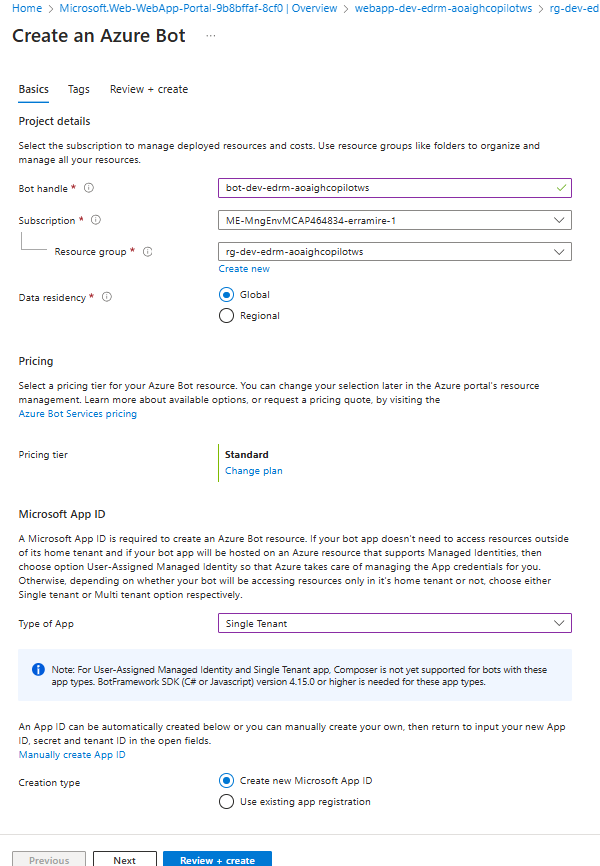
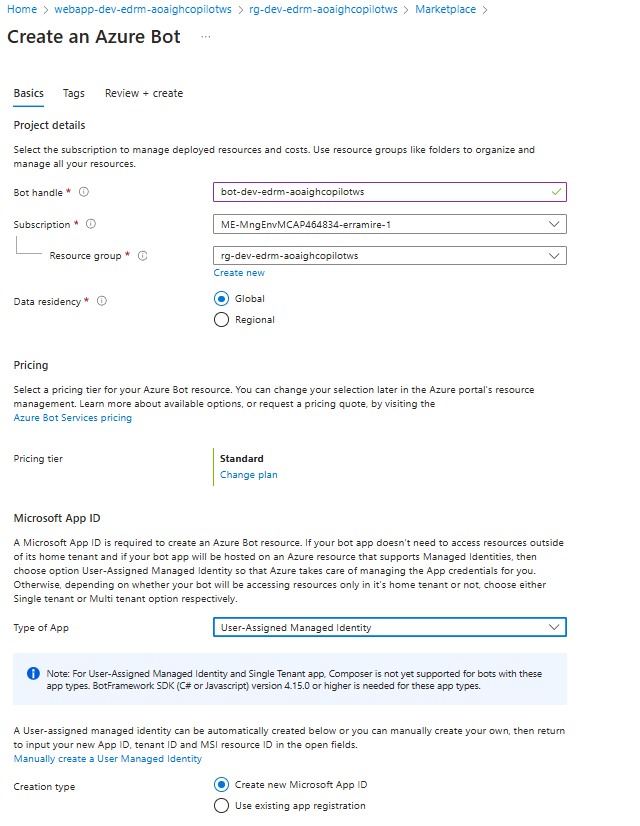
correccion errores

diff --git a/README.md b/README.md
@@ -1,10 +1,10 @@
 # MTC Cloud Academy - Desarrollo de aplicaciones Inteligentes con GitHub Copilot y CodeSpaces
 
-Este repositorio tiene el paso a paso para crear una aplicacion inteligente de tipo conversacional usando Azure Open AI, GitHub y sus herramientas.
+Este repositorio tiene el paso a paso para crear una aplicación inteligente de tipo conversacional usando Azure Open AI, GitHub y sus herramientas.
 
 El objetivo es mostrar que se pueden construir aplicaciones con inteligencia artificial generativa con GH Copilot, GH Codespaces y usando servicios PaaS de Azure.
 
-Cada sección tiene como objetivo principal mostrar una o varias caracteristicas de Azure Open AI, GH Copilot, las cuales se especifican en cada sección, no es necesario contar con un ambiente de desarrollo porque usaremos GH Codespaces que ya tiene las extensiones y frameworks necesarios para ejecutar el taller.
+Cada sección tiene como objetivo principal mostrar una o varias características de Azure Open AI, GH Copilot, las cuales se especifican en cada sección, no es necesario contar con un ambiente de desarrollo porque usaremos GH Codespaces que ya tiene las extensiones y frameworks necesarios para ejecutar el taller.
 
 Lo ideal es crear un Fork de este repositorio y utilizar el ambiente de Azure proporcionado en la sesión.
 
@@ -43,12 +43,12 @@ Los bots inteligentes que utilizan Azure Open AI y Azure Bot pueden ser implemen
 
 Estos bots se pueden personalizar y escalar según las necesidades específicas de cada negocio, proporcionando soluciones eficientes que mejoran la experiencia del usuario y optimizan los recursos internos.
 
-En la guia estamos planteando un bot relacionado con Buceo, pero es recomendable que el escenario lo relaciones con la industria de tu escenario de negocio. 
+En la guía estamos planteando un bot relacionado con Buceo, pero es recomendable que el escenario lo relaciones con la industria de tu escenario de negocio. 
 
-Buscamos habilitar el siguiente escenario tecnico:
+Buscamos habilitar el siguiente escenario técnico:
 "aqui va la imagen"
 
-A continuacion se muestra el contenido de la guía recomendada dela Demo
+A continuación se muestra el contenido de la guía recomendada dela Demo
 
 
 - [Demo Rapida de GitHub Copilot](#demo-rapida-de-github-copilot)
@@ -64,21 +64,21 @@ A continuacion se muestra el contenido de la guía recomendada dela Demo
 
 Para poder ejecutar la demo es necesario seguir los siguientes pasos: 
 
-1. Contar con una suscripción de Azure, si no cuentas con una puedes crear una cuenta gratuita en [Azure](https://azure.microsoft.com/es-es/free/). Para el taller contamos con un ambiente de Azure proporcionado por el instructor, el les hara llegar un correo con las instrucciones para acceder al ambiente (Es necesario registrarse en la liga que esta en el correo, ingresar el codigo y posteriormente dar clic en el botón "Launch Lab").
+1. Contar con una suscripción de Azure, si no cuentas con una puedes crear una cuenta gratuita en [Azure](https://azure.microsoft.com/es-es/free/). Para el taller contamos con un ambiente de Azure proporcionado por el instructor, el les hará llegar un correo con las instrucciones para acceder al ambiente (Es necesario registrarse en la liga que esta en el correo, ingresar el código y posteriormente dar clic en el botón "Launch Lab").
 
 2. Vamos al repositorio (https://github.com/demoedrmmsft/mtc-cloud-academy-openai-ghcopilot) y le damos clic en el botón de "Fork" ![alt text](images/image-a1.png)
 3. Posteriormente le damos clic en "Create A new fork" ![alt text](images/image-a2.png) 
 4. Especificamos el nombre del Repositorio (Podemos dejar el mismo nombre) y damos clic en "Create Fork" ![alt text](images/image-a3.png)
 5. Crear una rama en el repositorio, siguiendo los siguientes paso:
-   - a. Vamos a la sección de codigo, poseriormente en el menu de ramas damos clic ![alt text](images/image-1.png)
+   - a. Vamos a la sección de código, posteriormente en el menu de ramas damos clic ![alt text](images/image-1.png)
    - b. Especificamos el nombre de la rama (recomendable demo-"tualias") y del damos clic en Create branch demo-"tualias" from main ![alt text](images/image-2.png)
-   - c. Una vez que estas en la rama recien creada le damos clic en "Code" -> En la sección de Codespaces le damos clic en el botón de "+" ![alt text](images/image-3.png)
-6. Puede que intente abrir con Visual Studio code si lo tienes habilitado, si no puedes usar el navegador web. En caso que no visualizar el codespace, en nuestra rama, damos clic al botón de "Code" -> Damos clien en las elipses del codespace de nuestra rama y posteriormente en la opción de "Open in Browser" ![alt text](images/image-4.png)
+   - c. Una vez que estas en la rama recién creada le damos clic en "Code" -> En la sección de Codespaces le damos clic en el botón de "+" ![alt text](images/image-3.png)
+6. Puede que intente abrir con Visual Studio code si lo tienes habilitado, si no puedes usar el navegador web. En caso que no visualizar el codespace, en nuestra rama, damos clic al botón de "Code" -> Damos clic en las elipses del codespace de nuestra rama y posteriormente en la opción de "Open in Browser" ![alt text](images/image-4.png)
 7. Estas listo para seguir la guía y crear un bot inteligente que usa Azure Open AI .
 
 ## Paso a paso
 
-Dentro del escenario tenemos un Bot intelligente que usara Azure OpenAI para agregar inteligencia articial generativa, este Bot se podra integrar con microsoft teams y con un portal web.  
+Dentro del escenario tenemos un Bot inteligente que usara Azure OpenAI para agregar inteligencia artificial generativa, este Bot se podrá integrar con microsoft teams y con un portal web.  
 
 ### Habilitacion de Azure Open AI , Servicios de busqueda y Storage Account en Azure
 
@@ -86,7 +86,7 @@ En esta sección vamos a habilitar los servicios de Azure necesarios para el des
 
 #### A. Creación de Grupo de Recursos
 
-El grupo de recursos es el contenedore que agrupa los recursos de Azure, en este caso vamos a crear un grupo de recursos para organizar los recursos que vamos a crear.
+El grupo de recursos es el contenedor que agrupa los recursos de Azure, en este caso vamos a crear un grupo de recursos para organizar los recursos que vamos a crear.
 
 1. En el ambiente de Azure proporcionado por el instructor o en tu suscripción, vamos a la sección de "Resource Groups" y creamos un grupo de recursos. ![alt text](images/image-a4.png)
 2. Especificamos el nombre (podemos usar el siguiente formato "rg-dev-"iniciales"+"-aoaighcopilotws"y la región y damos clic en "Review + Create". ![alt text](images/image-a5.png)
@@ -95,12 +95,12 @@ El grupo de recursos es el contenedore que agrupa los recursos de Azure, en este
 
 El Storage Account de Azure es un servicio de almacenamiento en la nube seguro y altamente disponible que facilita el almacenamiento de datos estructurados y no estructurados en la nube. En nuestro escenario nos permitirá almacenar los archivos que queremos que use Azure OpenAI para darnos respuestas inteligentes a traves de nuestro Bot. Para crear una cuenta de almacenamiento en Azure, sigue estos pasos:
 
-1. En portal de Azure, vamos al grupo que recien creamos, damos clic en "Create", buscamos la sección de "Storage accounts" y creamos una cuenta de almacenamiento. ![alt text](images/image-a6.png)
+1. En portal de Azure, vamos al grupo que recién creamos, damos clic en "Create", buscamos la sección de "Storage accounts" y creamos una cuenta de almacenamiento. ![alt text](images/image-a6.png)
 2. Especificamos el nombre de la cuenta de almacenamiento (podemos usar el siguiente formato "sadev"+"iniciales"+"aoaighcopilotws", seleccionamos "Standard" en Performance y la región. damos clic en "Review + Create" y posteriormente en el botón de "Create". ![alt text](images/image-a7.png) ![alt text](images/image-a8.png)
 
 #### C. Creación de Azure Cognitive Search
 
-Azure Cognitive Search es un servicio de búsqueda en la nube completamente administrado que proporciona la capacidad de agregar una búsqueda enriquecida a las aplicaciones web y móviles. En nuestro escenario nos permitirá buscar información en los archivos que almacenamos en el Storage Account y proporcionar un mecanismo efectivo de busqueda a Azure OpenAI. Para crear un servicio de búsqueda en Azure, sigue estos pasos:
+Azure Cognitive Search es un servicio de búsqueda en la nube completamente administrado que proporciona la capacidad de agregar una búsqueda enriquecida a las aplicaciónes web y móviles. En nuestro escenario nos permitirá buscar información en los archivos que almacenamos en el Storage Account y proporcionar un mecanismo efectivo de busqueda a Azure OpenAI. Para crear un servicio de búsqueda en Azure, sigue estos pasos:
 
 1. En el portal de Azure, vamos al grupo de recursos que creamos, damos clic en "Create", buscamos la sección de "Azure AI Search" y creamos un servicio de búsqueda. ![alt text](images/image-a9.png)
 2. Especificamos el nombre del servicio de búsqueda (podemos usar el siguiente formato "aais-dev-"+"iniciales"+"-aoaighcopilotws", seleccionamos la región, y el pricing tier (Standard funciona bien para nuestro escenario) y damos clic en "Review + Create"; posteriormente en el botón de "Create". ![alt text](images/image-a10.png) ![alt text](images/image-a11.png)
@@ -114,7 +114,7 @@ Azure OpenAI es un servicio de inteligencia artificial generativa que permite a 
 
 #### Creación del Despliegue de ChatGPT
 
-Los Despliegues proveen endpoints a los modelos base de Azure OpenAI, en especial buscamos configurar el modelo de LLM (Large Language Model) que usaremos para hacer nuestro Bot Inteligete. En esta sección vamos a crear un despliegue de ChatGPT en Azure OpenAI, para esto es necesario seguir los siguientes pasos:
+Los Despliegues proveen endpoints a los modelos base de Azure OpenAI, en especial buscamos configurar el modelo de LLM (Large Language Model) que usaremos para hacer nuestro Bot Inteligente. En esta sección vamos a crear un despliegue de ChatGPT en Azure OpenAI, para esto es necesario seguir los siguientes pasos:
 
 1. En el portal de Azure, vamos al servicio de Azure OpenAI que creamos, en la sección de "Deployments" damos clic en "Create Deployment". ![alt text](images/image-a15.png)
 2. Damos clic en "Manage Deployments" para poder acceder a la consola de Azure OpenAI Studio ![alt text](images/image-a16.png)
@@ -123,11 +123,11 @@ Los Despliegues proveen endpoints a los modelos base de Azure OpenAI, en especia
 
 #### Trae tus datos a Azure OpenAI
 
-Para poder usar Azure OpenAI necesitamos traer nuestros datos a Azure OpenAI, en este caso vamos a especificar en el deployment que acabamos de configurar de donde obtendra los datos con lo que nos ayudará de un archivo de texto que contiene información sobre Buceo. Para traer los datos a Azure OpenAI, sigue estos pasos:
+Para poder usar Azure OpenAI necesitamos traer nuestros datos a Azure OpenAI, en este caso vamos a especificar en el deployment que acabamos de configurar de donde obtendrá los datos con lo que nos ayudará de un archivo de texto que contiene información sobre Buceo. Para traer los datos a Azure OpenAI, sigue estos pasos:
 
 1. En el portal de Azure, vamos al servicio de Azure OpenAI que creamos, en la sección de "Deployments", seleccionamos el Deployment que creamos y damos clic en "Open in Playground". ![alt text](images/image-a19.png)
 2. Ahora vemos el Playground de Azure OpenAI, podemos ver que si interactuamos con el modelo de ChatGPT, nos da respuestas inteligentes, pero provenientes de su base de conocimiento publica. ![alt text](images/image-a20.png)
-3. Por lo que si queremos acotarlo a que responda con datos de una fuente especifica nesitamos indicarselo al deployment. para esto en el panel lateral izquierdo le damos clic en "Add your Data" -> "Add a data source" ![alt text](images/image-a21.png)
+3. Por lo que si queremos acotarlo a que responda con datos de una fuente especifica necesitamos indicarlo al deployment. para esto en el panel lateral izquierdo le damos clic en "Add your Data" -> "Add a data source" ![alt text](images/image-a21.png)
 4. Seleccionamos los siguientes datos y damos clic en "Next":
    - Data source:  Upload files
    - Suscripción de Azure
@@ -137,10 +137,10 @@ Para poder usar Azure OpenAI necesitamos traer nuestros datos a Azure OpenAI, en
    - nombre del indice: contentindex
    ![alt text](images/image-a22.png)
 5. Posteriormente nos solicita subir un archivo, damos clic en "Upload files" y seleccionamos el cualquier archivo que se encuentre en la carpeta "dataFiles" de nuestro repositorio y damos clic en "Upload files". ![alt text](images/image-a23.png)
-6. Una vez que se subio el archivo, damos clic en "Next" ![alt text](images/image-a24.png)
-7. En la siguiente pantalla nos solicita que indiquemos el tipo de Busqueda, solo esta disponible la opción "Keyword", posteriormente seleccionamos el tamaño del Chunk; dejamos la opción por defecto.Damos clic en "Next" ![alt text](images/image-a25.png)
+6. Una vez que se subió el archivo, damos clic en "Next" ![alt text](images/image-a24.png)
+7. En la siguiente pantalla nos solicita que indiquemos el tipo de Búsqueda, solo esta disponible la opción "Keyword", posteriormente seleccionamos el tamaño del Chunk; dejamos la opción por defecto.Damos clic en "Next" ![alt text](images/image-a25.png)
 8. Nos muestra un resumen de la configuración, damos clic en el botón de "Save and close" ![alt text](images/image-a26.png)
-9. Ahora podemos ver que esta ejecutandose el proceso de ingestion e indexación, esperamos a que terminen ambos procesos ![alt text](images/image-a27.png)
+9. Ahora podemos ver que esta ejecutándose el proceso de ingestion e indexación, esperamos a que terminen ambos procesos ![alt text](images/image-a27.png)
 10. Una vez que termino el proceso de ingestion e indexación, podemos ver que el modelo de ChatGPT ya esta listo para responder con la información que se encuentra en el archivo que subimos. ![alt text](images/image-a28.png).![alt text](image.png)
 
 ### Creación de Azure Bot Service
@@ -152,35 +152,35 @@ Azure Bot Service es un servicio de Azure que permite a los desarrolladores crea
 3. Una vez que se creo el App Service Plan necesitamos crear un web app, vamos al grupo de recursos que creamos, damos clic en "Create", buscamos la sección de "Web App" y creamos le damos clic en "Create un Bot Service. ![alt text](images/image-a33.png)
 4. Especificamos el nombre del Web App (podemos usar el siguiente formato "webapp-dev-"+"iniciales"+"-aoaighcopilotws"), seleccionamos el tipo de publish = "Code", el Runtime Stack = ".NET 6 (LTS), Sistema operativo = "Linux",  el App Service Plan que creamos, la región, y damos clic en "Review + Create"; posteriormente en el botón de "Create". ![alt text](images/image-a34.png) ![alt text](images/image-a35.png)
 5. Una vez que se creo el Web App, necesitamos crear un Bot Service, vamos al grupo de recursos que creamos, damos clic en "Create", buscamos la sección de "Azure Bot" y creamos le damos clic en "Create". ![alt text](images/image-a36.png)
-6. Especificamos el nombre del Bot (podemos usar el siguiente formato "bot-dev-"+"iniciales"+"-aoaighcopilotws"), seleccionamos el Data REsidency = "Global, Pricing Tier Standard, Type of App Single Tenant y el Creation Type: Create new Microsoft App ID; damos clic en "Review + Create"; posteriormente en el botón de "Create". ![alt text](images/image-a37.png) ![alt text](images/image-a38.png)
+6. Especificamos el nombre del Bot (podemos usar el siguiente formato "bot-dev-"+"iniciales"+"-aoaighcopilotws"), seleccionamos el Data REsidency = "Global, Pricing Tier Standard, Type of App: User-Assigned Managed Identity y el Creation Type: Create new Microsoft App ID; damos clic en "Review + Create"; posteriormente en el botón de "Create". ![alt text](images/image-a37.png) ![alt text](images/image-a38.png)
 7. Una vez que se creo el Bot Service, necesitamos configurar el messaging endpoint, para esto agregamos la url del web app anteriormente creada mas el posfijo de "/api/messages"; damos clic en "Apply". ![alt text](images/image-a39.png)
-8. Por ultimo necesitamos habilitar el proceso de despligue continuo en Github para que publique directamente en el web app, como primer paso habilitamos el SCM Basic Auth Publishing y FTP Basic Auth Publishing en la sección de configuración, damo clic en "Save" ![alt text](images/image-a40.png)
+8. Por ultimo necesitamos habilitar el proceso de despliegue continuo en Github para que publique directamente en el web app, como primer paso habilitamos el SCM Basic Auth Publishing y FTP Basic Auth Publishing en la sección de configuración, damos clic en "Save" ![alt text](images/image-a40.png)
 9. Posteriormente en la sección de "Overview" seleccionamos "Download publish profile". ![alt text](images/image-a41.png)
-10. Abrimos el archivo en Notepad o el editor de texto de tu predilección, copiamos el contenido; vamos a Github en el repositorio al que le hicimos fork, vamos a la seccion de Settings y despues a "Secrets and Variables" -> Actions ![alt text](images/image-a42.png)
-11. Creamos un nuevo secreto dando clic en el boton de "New repository secret" ![alt text](images/image-a43.png)
+10. Abrimos el archivo en Notepad o el editor de texto de tu predilección, copiamos el contenido; vamos a Github en el repositorio al que le hicimos fork, vamos a la sección de Settings y después a "Secrets and Variables" -> Actions ![alt text](images/image-a42.png)
+11. Creamos un nuevo secreto dando clic en el botón de "New repository secret" ![alt text](images/image-a43.png)
 12. Especificamos el nombre= "AZUREAPPSERVICE_PUBLISHPROFILE" y el Secret con el valor que copiamos anteriormente.![alt text](images/image-a44.png)
 
 Con esto ya tenemos configurado el despliegue continuo de nuestro Bot en Azure Bot Service. Vamos a codificar nuestro Bot.
 
 ### Construcción del Bot
 
-Una vez abierto nuestro codespace en el navegador, en esta seccion necesitamos platicar de las siguientes funcionlidades de GH Copilot: 
+Una vez abierto nuestro Codespace en el navegador, en esta sección necesitamos platicar de las siguientes funcionalidades de GH Copilot: 
 
-- Mostramos que es muy facil integrarlo en nuestro ide (Visual Studio Code):
+- Vemos que es muy fácil integrarlo en nuestro IDE (Visual Studio Code):
   1. Vamos al pane lateral izquierdo y damos clic en el menu de extensiones ó con el shortcut de "Ctrl+Shift+X" ![alt text](images/image-5.png)
-  2. En la barra de Busqueda buscamos "GitHub Copilot", y comentamos que tenemos disponible la ayuda disponible inline con GH Copilot y con un asistente Virtual con Github Copilot y esta al alcance de un clic en el boton instalar. ![alt text](images/image-6.png)
-- Una vez explicado lo anterior vamos al panel lateral izquierdo y le damos clic en el menu de "Chat"; ahí explicamos que tenemos una interfaz conversacional donde podemos poner nuestros promts. ![alt text](images/image-7.png)
+  2. En la barra de Búsqueda buscamos "GitHub Copilot", tenemos disponible la ayuda disponible inline con GH Copilot y con un asistente Virtual con Github Copilot y esta al alcance de un clic en el botón instalar. ![alt text](images/image-6.png)
+- Una vez explicado lo anterior vamos al panel lateral izquierdo y le damos clic en el menu de "Chat"; ahí vemos que tenemos una interfaz conversacional donde podemos poner nuestros prompts. ![alt text](images/image-7.png)
 
-Una vez explicado esto procedemos a construir nuestro bot:
+Procedemos a construir nuestro bot:
 
-1. En el asistente de GH Copilot escribimos el siguiente prompt: "Como desarrollador, necesito crear una aplicacion web de tipo bot en .Net Core llamada BuceoBot, donde utilice el template de EchoBot del Bot Framework de Microsoft". Si la Respuesta es similar a la siguiente imagen le damos clic en boton de thums up para indicar que lo que nos recomendo fue acertado (con eso le indicamos a GH Copilot que nos dio una respuesta correcta y en futuras interacciones no dará respuestas mas adecuadas). ![alt text](images/image-8.png)
-2. Es importante recalcar que la estructura del prompt anterior es del tipo "Zero Prompt", sin embargo al usar tecnicas como especificar cual es nuestro rol, expresar una acción y detallar un contexto nos permite tener respuestas mas certeras para usarlas en el desarrollo de nuestra solución. Ahora necesitamos aplicar lo que nos recomienda. Para esto vamos a instalar las platillas , abrimos una terminal en el codespace de la siguiente forma: Menu Contextual -> Terminal -> New Terminal ![alt text](images/image-9.png)
-3. Posteriomente posicionamos el curson en la primera recomendación y seleccionamos la opcion de "Insert in Terminal", ejecutamos el comando. ![alt text](images/image99.png)
-   Puede ser que falle nuestro comando. 
+1. En el asistente de GH Copilot escribimos el siguiente prompt: "Como desarrollador, necesito crear una aplicación web de tipo bot en .Net Core llamada BuceoBot, donde utilice el template de EchoBot del Bot Framework de Microsoft". Si la Respuesta es similar a la siguiente imagen le damos clic en botón de thumbs up para indicar que lo que nos recomendó fue acertado (con eso le indicamos a GH Copilot que nos dio una respuesta correcta y en futuras interacciones no dará respuestas mas adecuadas). ![alt text](images/image-8.png)
+2. Es importante recalcar que la estructura del prompt anterior es del tipo "Zero Prompt", sin embargo al usar técnicas como especificar cual es nuestro rol, expresar una acción y detallar un contexto nos permite tener respuestas mas certeras para usarlas en el desarrollo de nuestra solución. Ahora necesitamos aplicar lo que nos recomienda. Para esto vamos a instalar las platillas , abrimos una terminal en el Codespace de la siguiente forma: Menu Contextual -> Terminal -> New Terminal ![alt text](images/image-9.png)
+3. Posteriormente posicionamos el cursor en la primera recomendación y seleccionamos la opción de "Insert in Terminal", ejecutamos el comando. ![alt text](images/image99.png)
+   Puede ser que falle nuestro comando.
    ![alt text](images/image-199.png)
-4. En dado caso que falle, una de las ventajas que tenemos es que podemos usar GH copilot, tiene la posibilidad de usar comandos para poder obtener recomendaciones para resolver un error en la terminal, en la ventana de copilot escribimos el promtp "@terminal /explain #terminalLastCommand" donde con la @ especificamos el area de trabajo que en nuestro caso es la consola, / usamos el comando para que GH Copilt nos explique porque esta mal el comando anterior y con el # especificamos que comando que en nuestro caso es el ultimo. lo cual nos ayuda a no cambiar de contexto y seguir trabajando en el IDE. ![alt text](images/image-299.png)
+4. En dado caso que falle, una de las ventajas que tenemos es que podemos usar GH copilot, tiene la posibilidad de usar comandos para poder obtener recomendaciones para resolver un error en la terminal, en la ventana de copilot escribimos el promtp "@terminal /explain #terminalLastCommand" donde con la @ especificamos el area de trabajo que en nuestro caso es la consola, / usamos el comando para que GH Copilot nos explique porque esta mal el comando anterior y con el # especificamos que comando que en nuestro caso es el ultimo. lo cual nos ayuda a no cambiar de contexto y seguir trabajando en el IDE. ![alt text](images/image-299.png)
 5. Aplicamos las recomendaciones e intentamos ejecutar el comando anterior y vemos que esta mal de nuevo. ![alt text](images/image-399.png)
-6. Es posible que ya no se encuentre este paquete por lo que vamos a cambiar nuestro prompt anterior. Necesitamos usar el template de EchoBot, por lo que necesitamos ejecutar el siguiente prompt "Como desarrollador, necesito crear una aplicacion web de tipo bot en .Net Core llamada BuceoBot, donde utilice el template de EchoBot del Bot Framework de Microsoft. El template de EchoBot para C# lo necesito instalar con el comando dotnet -i, usando dotnet new -i Microsoft.Bot.Framework.CSharp.EchoBot"![alt text](images/image-499.png)
+6. Es posible que ya no se encuentre este paquete por lo que vamos a cambiar nuestro prompt anterior. Necesitamos usar el template de EchoBot, por lo que necesitamos ejecutar el siguiente prompt "Como desarrollador, necesito crear una aplicación web de tipo bot en .Net Core llamada BuceoBot, donde utilice el template de EchoBot del Bot Framework de Microsoft. El template de EchoBot para C# lo necesito instalar con el comando dotnet -i, usando dotnet new -i Microsoft.Bot.Framework.CSharp.EchoBot"![alt text](images/image-499.png)
 7. Seguimos las recomendaciones ejecutamos el comando ![alt text](images/image-599.png)
 8. Creamos nuestro proyecto ejecutando el comando de creación recomendado. ![alt text](images/image-699.png)
 9. Nos cambiamos de repositorio y ejecutamos el proyecto. ![alt text](images/image-799.png)
@@ -190,22 +190,22 @@ Una vez explicado esto procedemos a construir nuestro bot:
 13. Puede resultar confuso si no tengo el conocimiento de como funciona un bot, por tal motivo vamos a pedirle a GH Copilot para que nos explique. Abrimos el GH Copilot Chat y con el archivo abierto escribimos @workspace /explain. ![alt text](images/image-1199.png)
 14. GH Copilot nos explica el contenido de nuestro Bot ![alt text](images/image-1299.png)
 15. Pedimos a Copilot que nos ayude a renombrar EchoBot por BuceoBot, para esto escribimos el siguiente prompt "Renombrar EchoBot.cs por BuceoBot" ![alt text](images/image-1399.png)
-16. Seguimos el procedimietno para realizar el renombramiento de EchoBot.cs ![alt text](images/image-1499.png)
+16. Seguimos el procedimiento para realizar el rename de EchoBot.cs ![alt text](images/image-1499.png)
 17. Cambiamos donde diga EchoBot por BuceoBot presionamos Ctrl+Shipt+H y reemplazamos ![alt text](images/image-1599.png)  
 18. Volvemos a ejecutar el bot, abrimos a la terminal y ejecutamos el siguiente comando: "dotnet run" ![alt text](images/image-1699.png)
 19. Nuestro bot esta listo para ser Desplegado en Azure ![alt text](images/image-1799.png)
-20. Ya existe un recurso de Azure Bot configurado, es necesario ir al archivo appsettings.json, e indicamos la siguiente información:
+20. Ya existe un recurso de Azure Bot configurado, en la sección de Configuración encontraremos el Microsoft App ID y el App Tenant ID,  es necesario ir al archivo appsettings.json y los reemplazamos e indicamos la siguiente información:
     - "MicrosoftAppType": "UserAssignedMSI",
-    - "MicrosoftAppId": "82a6641b-2db0-470a-bd39-8569fb753906",
+    - "MicrosoftAppId": "XXXXX-XXXX-XXXX-XXXX-XXXXX",
     - "MicrosoftAppPassword": "",
-    - "MicrosoftAppTenantId": "fb5cf4a8-088e-4279-bda3-ff6baaae47ae"  las credenciales para realizar el despliegue.
+    - "MicrosoftAppTenantId": "xxxxxxxxx-xxxx-xxxx-xxxx-xxxxxxxxxxxxx"
   
    Tal y como lo vemos en la siguiente imagen ![alt text](images/image-2099.png)
 
-21. El proyecto ya tiene un definicion de un workflow que despliega la solucion en un Azure Bot. por lo tanto debemos ir a panel lateral izquierdo en la sección de Source Control, demos especificar el mensaje y podemos utilizar a GH Copilot para que nos recomiende una descripción ![alt text](images/image-2199.png)
+21. El proyecto ya tiene un definición de un workflow que despliega la solución en un Azure Bot. por lo tanto debemos ir a panel lateral izquierdo en la sección de Source Control, demos especificar el mensaje y podemos utilizar a GH Copilot para que nos recomiende una descripción ![alt text](images/image-2199.png)
 22. Una vez generado el comentario le damos clic en el Botón de "Commit" ![alt text](images/image-2299.png)
 23. Sincronizamos los cambios dando clic en el botón de "Sync Changes" ![alt text](images/image-2399.png)
-24. Al realizar esto se ejecuta el workflow que despliega la solucion usando el workflow de Github actions a los servicios de Azure. Para visalizarlo le damos clic en el proyecto de github en la seccion de Actions ![alt text](images/image-2499.png)
+24. Al realizar esto se ejecuta el workflow que despliega la solución usando el workflow de Github actions a los servicios de Azure. Para visualizarlo le damos clic en el proyecto de github en la sección de Actions ![alt text](images/image-2499.png)
 25. Para ver el detalle le damos clic en el ultimo despliegue y vemos el detalle, en nuestro caso fue exitoso. ![alt text](images/image-2599.png) 
 
 Procedemos a hacer inteligente nuestro bot
@@ -215,16 +215,16 @@ Procedemos a hacer inteligente nuestro bot
 Para este escenario necesitamos agregar inteligencia a nuestro bot, por lo que nos auxiliaremos de Github Copilot para usar Azure OpenAI para alcanzar este objetivo. 
 
 1. Donde le vamos a agregar inteligencia es en el archivo de Bots/BuceoBot.cs, por lo que procedemos a abrirlo
-2. En GH Copilot Chat indicamos el siguiente prompt : "Como instalar la libreria de Azure y Azure.AI.OpenAI", y seguimos el procedimiento indicado en la consola ( es importante que estemos en la carpeta del proyecto usando el comando "cd BuceoBot") ![alt text](images/image-2799.png)
+2. En GH Copilot Chat indicamos el siguiente prompt : "Como instalar la librería de Azure y Azure.AI.OpenAI", y seguimos el procedimiento indicado en la consola ( es importante que estemos en la carpeta del proyecto usando el comando "cd BuceoBot") ![alt text](images/image-2799.png)
 3. Vamos a usar el encadenamiento de prompts para mejorar la eficiencia de las recomendaciones del Gh Copilot in lines en los archivos que estamos trabajando.  En la linea 12 damos un salto de linea y ponemos un comentario con el siguiente prompt : "Generar 2 propiedades para la llave y el endpoint de Azure OpenAI, con un valor predeterminado"
-4. Remplazamos con los siguientes valores:
-   - Key de Azure OpenAI = "b605bdfb2f3945e1ba066c8359783ef5"
-   - Endpoint de Azure OpenAI = "https://oaibotbuceo.openai.azure.com/"
-5. Necesitamos generar un metodo para invocar a OpenAI por lo que ponemos un comentario en la linea 16 con el siguiente prompt : "#Generar un metodo asincrono que regrese un string y que reciba como parametro un texto, el metodo esta vacio" ![alt text](images/image-2999.png)
+4. Vamos al recurso de Azure OpenAI y buscamos Key 1 y endpoint en la sección "Keys and EndPoint",  procedemos a reemplazar los siguientes valores en el código:
+   - Key de Azure OpenAI = "xxxxxxxxxxxxxxxxxxxxxxxxxxx"
+   - Endpoint de Azure OpenAI = "https://xxxxxxxxxxxx.openai.azure.com/"
+5. Necesitamos generar un método para invocar a OpenAI por lo que ponemos un comentario en la linea 16 con el siguiente prompt : "#Generar un método asíncrono que regrese un string y que reciba como parámetro un texto, el método esta vacío" ![alt text](images/image-2999.png)
 6. Damos un salto de linea en la linea 19 y escribimos el siguiente prompt como comentario para generar la llave para acceder al cliente de Azure Open AI: "#generar un AzureKeyCredential con la llave de OpenAI"![alt text](images/image-3099.png)
-7. Damos un salto de linea y escribimos el siguiente prompt como comentario = " #inicializar el cliente de OpenAIClient con el endpoint de openai y el AzureKeyCredential" ![alt text](images/image-3199.png)
-8. Ingresamos el siguiente comentario para inicializar las opciones de nuestro cliente "Inicializar las opciones de ChatCompletionsOptions de forma inline indicando el parametro de DeploymentName de tipo gpt-35-turbo y Messages recibido de la variable text de tipo ChatRequestUserMessage. Siguiendo el formato new Class { Property = Value }" ![alt text](images/image-3299.png)
-9. Si existe algun error pueden usar el siguiente codigo: 
+7. Damos un salto de linea y escribimos el siguiente prompt como comentario = " #inicializar el cliente de OpenAIClient con el endpoint de OpenAI y el AzureKeyCredential" ![alt text](images/image-3199.png)
+8. Ingresamos el siguiente comentario para inicializar las opciónes de nuestro cliente "Inicializar las opciónes de ChatCompletionsOptions de forma inline indicando el parámetro de DeploymentName de tipo gpt-35-turbo y Messages recibido de la variable text de tipo ChatRequestUserMessage. Siguiendo el formato new Class { Property = Value }" ![alt text](images/image-3299.png)
+9. Si existe algún error pueden usar el siguiente código:
             "var options = new ChatCompletionsOptions
             {
                   DeploymentName="gpt-35-turbo",
@@ -232,13 +232,13 @@ Para este escenario necesitamos agregar inteligencia a nuestro bot, por lo que n
                       new ChatRequestUserMessage (text )
                   },                
              };"
-10. Invocamos el metodo y ponemos el siguiente comentario: "Invocar el metodo GetChatCompletionsAsync y regresar la respuesta de la llamada" ![alt text](images/image-3399.png)
+10. Invocamos el método y ponemos el siguiente comentario: "Invocar el método GetChatCompletionsAsync y regresar la respuesta de la llamada" ![alt text](images/image-3399.png)
 11. Regresar la respuesta es el siguiente paso, por lo que ponemos el siguiente comentario: "regresar el texto de la respuesta de Choices" ![alt text](images/image-3499.png)
-12. En el metodo de OnMessageActivityAsync elimianmos la linea donde esta la variable de replytext y ponemos el siguiente comentario: "Declarar una variable de tipo string llamada replyText y asignarle el valor de la respuesta de GetOpenAIResponseAsync con el parametro de texto de la actividad recibida" el nombre del metodo puede variar usa el que te genero anteriormente. ![alt text](images/image-3599.png)
+12. En el método de OnMessageActivityAsync eliminamos la linea donde esta la variable de replytext y ponemos el siguiente comentario: "Declarar una variable de tipo string llamada replyText y asignarle el valor de la respuesta de GetOpenAIResponseAsync con el parámetro de texto de la actividad recibida" el nombre del método puede variar usa el que te genero anteriormente. ![alt text](images/image-3599.png)
 13. Procedemos a hacer el commit y el push para que se despliegue el bot. ![alt text](images/image-3699.png)
 
 ### Integración del bot con Microsoft Teams
 
 Una vez desplegado el Bot, procedemos a instalarlo, esto lo podemos hacer dando clic en el siguiente enlace: "https://teams.microsoft.com/l/chat/0/0?users=28:82a6641b-2db0-470a-bd39-8569fb753906". El cual obtuvimos del bot de azure. ![alt text](images/image-3799.png)
 
-Nos vamos a Teams, puedes ingresar el siguiente prompt: "¿Cual es el equipo basico de buceo recomendado para bucear en un arrecife?"
+Nos vamos a Teams, puedes ingresar el prompt que corresponda al documento que elegiste.
